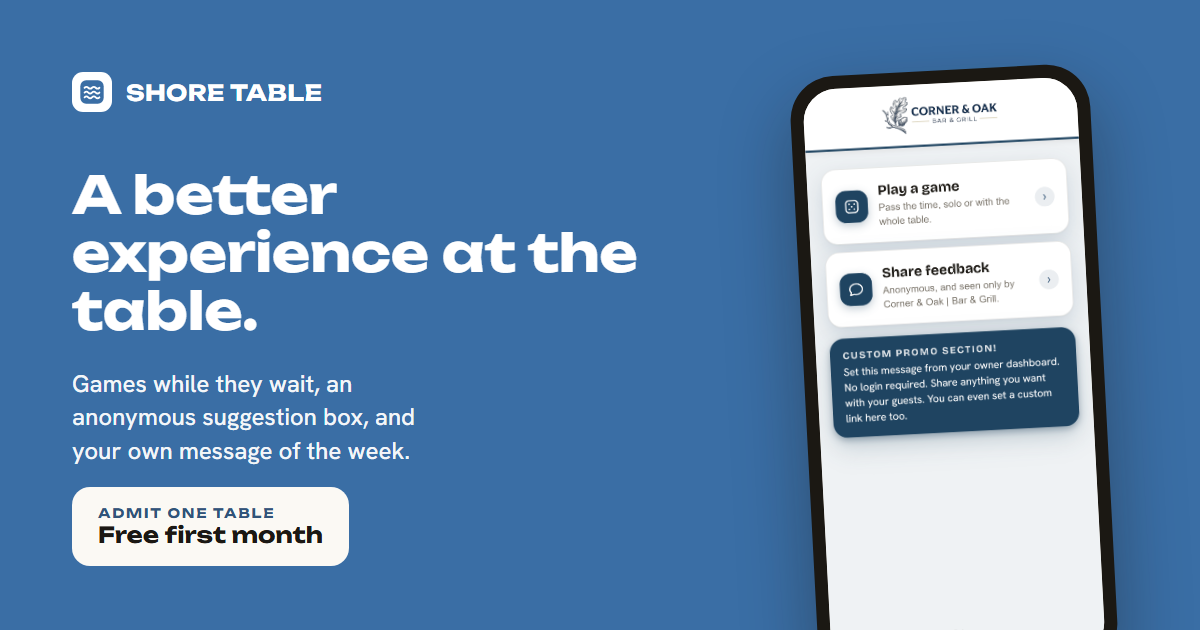
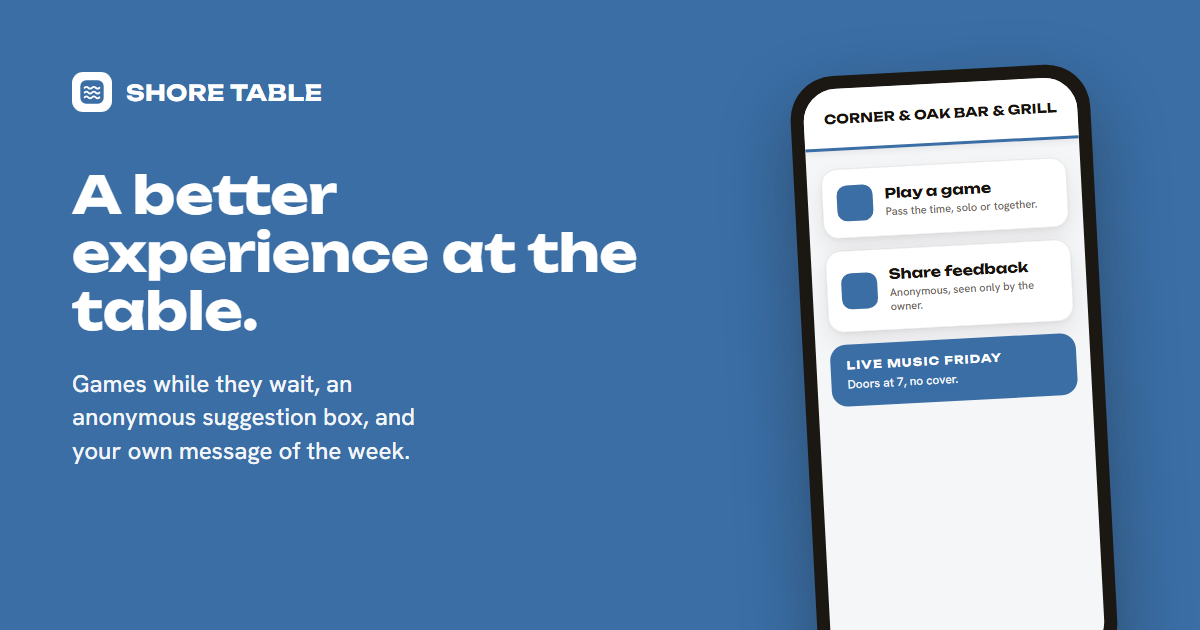
WIP homepage pass 4: headline A better experience at the table, Admit one tickets, original lede back, hero phones are live app mockups (no screenshot files), sharing card drawn and published by Settings, upstream og.png regenerated

diff --git a/public/index.html b/public/index.html
@@ -23,9 +23,8 @@
    placeholder in that spot, so it is safe to deploy as is.
    ================================================================ */
 const REPORT_IMAGE_URL = "images/report.png";
-const SCREENSHOT_URL_1 = "images/screenshot-1-landing.png";
-const SCREENSHOT_URL_2 = "images/screenshot-2-hotseat.png";
-const SCREENSHOT_URL_3 = "images/screenshot-3-survey.png";
+/* The three phones in the hero are live mockups of the app, drawn in your
+   accent with your demo venue's name and logo: nothing to paste for them. */
 </script>
 <style>
   /* ============================================================
@@ -152,6 +151,39 @@ const SCREENSHOT_URL_3 = "images/screenshot-3-survey.png";
   .phone-frame .screen{border-radius:26px;overflow:hidden;background:#efece6;aspect-ratio:9/19}
   .phone-frame img{width:100%;height:100%;object-fit:cover}
   .phone-frame .ph{width:100%;height:100%;display:flex;flex-direction:column;align-items:center;justify-content:center;gap:10px;color:var(--ink-faint);font-size:13px;text-align:center;padding:16px}
+  /* the three screens are the app's real components, drawn here at the app's
+     390px width and scaled into the frame, in the accent, with the demo
+     venue's name and logo filled in at load */
+  .mk{width:390px;height:823px;transform:scale(.5436);transform-origin:0 0;background:#f3f5f8;background:color-mix(in srgb, var(--accent) 5%, #f7f8f9);font-family:var(--font-b);color:#16110a;overflow:hidden;position:relative;pointer-events:none;user-select:none}
+  .mk-brand{display:flex;align-items:center;justify-content:center;gap:10px;min-height:62px;padding:14px 18px;background:#fff;border-bottom:3px solid var(--accent);box-shadow:0 2px 8px rgba(22,17,10,.08);position:relative}
+  .mk-logo{display:inline-flex;align-items:center;justify-content:center;max-height:38px}
+  .mk-logo img{max-height:38px;max-width:190px;object-fit:contain;display:block}
+  .mk-logo.has-img .mk-name{display:none}
+  .mk-name{font-family:var(--font-d);font-weight:700;font-size:15px;letter-spacing:.02em;text-transform:uppercase;color:#16110a}
+  .mk-quit{position:absolute;right:16px;top:50%;transform:translateY(-50%);background:var(--accent);color:var(--on-accent);font-weight:700;font-size:12px;border-radius:999px;padding:6px 12px}
+  .mk-body{padding:18px 16px}
+  .mk-opt{position:relative;display:flex;align-items:center;gap:14px;background:#fff;border:1px solid rgba(22,17,10,.09);border-radius:18px;padding:18px 44px 18px 16px;box-shadow:0 2px 4px rgba(22,17,10,.04),0 12px 28px rgba(22,17,10,.08);margin-bottom:11px}
+  .mk-opt b{display:block;font-family:var(--font-d);font-weight:700;font-size:19px;line-height:1.15}
+  .mk-opt i{display:block;font-style:normal;color:#6d6759;font-size:13.5px;line-height:1.4;margin-top:5px}
+  .mk-opt em{position:absolute;right:18px;top:50%;transform:translateY(-50%);font-style:normal;color:#a49d90;font-size:22px}
+  .mk-ic{flex:none;width:44px;height:44px;border-radius:12px;background:var(--accent);color:var(--on-accent);display:grid;place-items:center}
+  .mk-ic svg{width:22px;height:22px;fill:none;stroke:currentColor;stroke-width:1.9;stroke-linecap:round;stroke-linejoin:round}
+  .mk-promo{background:var(--accent);color:var(--on-accent);border-radius:18px;padding:16px 18px;margin-top:6px}
+  .mk-promo b{display:block;font-family:var(--font-d);font-weight:700;font-size:15px;letter-spacing:.12em;text-transform:uppercase}
+  .mk-promo i{display:block;font-style:normal;font-size:14.5px;line-height:1.45;margin-top:5px;opacity:.94}
+  .mk-eyebrow{display:inline-block;background:#fff;border:1px solid rgba(22,17,10,.11);color:var(--accent-deep);border-radius:999px;padding:6px 12px;font-family:var(--font-d);font-weight:700;font-size:10.5px;letter-spacing:.13em;text-transform:uppercase;margin-bottom:14px;box-shadow:0 1px 2px rgba(22,17,10,.06)}
+  .mk-q{font-family:var(--font-d);font-weight:700;font-size:21px;line-height:1.2;margin-bottom:14px}
+  .mk-answer{position:relative;background:#fff;border:1px solid rgba(22,17,10,.2);border-radius:14px;padding:15px 18px;font-weight:600;font-size:15.5px;margin-bottom:10px;box-shadow:0 1px 2px rgba(22,17,10,.06)}
+  .mk-answer.right{border-color:#1f7a4a;background:#e7f5ec}
+  .mk-answer.right span{position:absolute;right:16px;top:50%;transform:translateY(-50%);font-family:var(--font-d);font-weight:700;font-size:11px;letter-spacing:.05em;color:#1f7a4a}
+  .mk-btn{margin-top:8px;background:var(--accent);color:var(--on-accent);border-radius:999px;padding:16px;text-align:center;font-family:var(--font-d);font-weight:700;font-size:15.5px}
+  .mk-label{font-weight:700;font-size:15.5px;margin-top:14px}
+  .mk-rate{display:flex;gap:8px;margin-top:10px}
+  .mk-rate span{flex:1;height:44px;border-radius:12px;background:#fff;border:1px solid rgba(22,17,10,.2);display:flex;align-items:center;justify-content:center;font-family:var(--font-d);font-weight:700;color:#a49d90;font-size:14px}
+  .mk-rate span.on{background:var(--accent);color:var(--on-accent);border-color:transparent}
+  .mk-pills{display:flex;flex-wrap:wrap;gap:8px;margin-top:10px}
+  .mk-pills span{flex:1 1 auto;min-width:96px;background:#fff;border:1px solid rgba(22,17,10,.2);border-radius:12px;padding:12px;font-weight:600;font-size:13.5px;text-align:center}
+  .mk-pills span.on{border-color:var(--accent);background:color-mix(in srgb, var(--accent) 12%, #fff)}
   .phone-frame .ph .dot{width:10px;height:10px;border-radius:2px;background:var(--accent);transform:rotate(45deg)}
   /* captions are prize tags on a string */
   .phone-caption{position:relative;margin-top:22px;background:var(--stock);border:1px solid var(--line-2);border-radius:10px;padding:9px 14px;font-family:var(--font-d);font-weight:500;font-size:11.5px;letter-spacing:.06em;text-transform:uppercase;color:var(--ink)}
@@ -311,12 +343,12 @@ const SCREENSHOT_URL_3 = "images/screenshot-3-survey.png";
   <div class="booth on-accent">
     <div class="wrap booth-inner">
       <div class="booth-copy">
-        <h1>Give them a better experience, not just a better meal.</h1>
-        <p class="lede">A card on your table opens a branded app on your guests' phones: games while they wait, an anonymous suggestion box, and your own message of the week. You get a private live dashboard of what they think.</p>
+        <h1>A better experience at the table.</h1>
+        <p class="lede">Guests scan a card on your table and a branded web app opens on their phone, customized for your restaurant. Games while they wait, an anonymous suggestion box, and a spot for anything you want to tell them that week. You get a private live dashboard with all the important data and insights.</p>
       </div>
       <div class="ticket" aria-label="Get started">
         <div class="ticket__stub">
-          <div class="k">Admit one table</div>
+          <div class="k">Admit one</div>
           <div class="n">Free first month</div>
           <div class="s">For independent restaurants and bars in <span class="cfg-region">your area</span>.</div>
           <span class="notch a" aria-hidden="true"></span><span class="notch b" aria-hidden="true"></span>
@@ -332,15 +364,44 @@ const SCREENSHOT_URL_3 = "images/screenshot-3-survey.png";
     <div class="wrap">
       <div class="phones">
         <div class="phone-col">
-          <div class="phone-frame"><div class="screen" data-img="SCREENSHOT_URL_1"><div class="ph"><span class="dot"></span>App screenshot 1</div></div></div>
+          <div class="phone-frame" role="img" aria-label="The app's home screen on a phone: play a game, share feedback, and the restaurant's own announcement"><div class="screen"><div class="mk" aria-hidden="true">
+            <div class="mk-brand"><span class="mk-logo"><span class="mk-name">Your restaurant</span></span></div>
+            <div class="mk-body">
+              <div class="mk-opt"><span class="mk-ic"><svg viewBox="0 0 24 24"><rect x="3.5" y="3.5" width="17" height="17" rx="4.5"/><circle cx="8.4" cy="8.4" r="1.2" fill="currentColor" stroke="none"/><circle cx="15.6" cy="8.4" r="1.2" fill="currentColor" stroke="none"/><circle cx="12" cy="12" r="1.2" fill="currentColor" stroke="none"/><circle cx="8.4" cy="15.6" r="1.2" fill="currentColor" stroke="none"/><circle cx="15.6" cy="15.6" r="1.2" fill="currentColor" stroke="none"/></svg></span><span><b>Play a game</b><i>Pass the time, solo or with the whole table.</i></span><em>›</em></div>
+              <div class="mk-opt"><span class="mk-ic"><svg viewBox="0 0 24 24"><path d="M21 11.5a8.4 8.4 0 0 1-.9 3.8 8.5 8.5 0 0 1-7.6 4.7 8.4 8.4 0 0 1-3.8-.9L3 21l1.9-5.7a8.4 8.4 0 0 1-.9-3.8 8.5 8.5 0 0 1 4.7-7.6 8.4 8.4 0 0 1 3.8-.9h.5a8.5 8.5 0 0 1 8 8z"/></svg></span><span><b>Share feedback</b><i>Anonymous, and seen only by <span class="mk-name">Your restaurant</span>.</i></span><em>›</em></div>
+              <div class="mk-promo"><b>Live music Friday</b><i>Doors at 7, no cover. Kitchen open late.</i></div>
+            </div>
+          </div></div></div>
           <div class="phone-caption">What they see first</div>
         </div>
         <div class="phone-col">
-          <div class="phone-frame"><div class="screen" data-img="SCREENSHOT_URL_2"><div class="ph"><span class="dot"></span>App screenshot 2</div></div></div>
+          <div class="phone-frame" role="img" aria-label="A trivia round in progress on a phone"><div class="screen"><div class="mk" aria-hidden="true">
+            <div class="mk-brand"><span class="mk-logo"><span class="mk-name">Your restaurant</span></span><span class="mk-quit">Quit</span></div>
+            <div class="mk-body">
+              <div class="mk-eyebrow">Trivia · 3 of 8</div>
+              <div class="mk-q">Who directed the 1972 crime film The Godfather?</div>
+              <div class="mk-answer">Sidney Lumet</div>
+              <div class="mk-answer">Brian De Palma</div>
+              <div class="mk-answer right">Francis Ford Coppola<span>Correct</span></div>
+              <div class="mk-answer">Martin Scorsese</div>
+              <div class="mk-btn">Next ›</div>
+            </div>
+          </div></div></div>
           <div class="phone-caption">A game in progress</div>
         </div>
         <div class="phone-col">
-          <div class="phone-frame"><div class="screen" data-img="SCREENSHOT_URL_3"><div class="ph"><span class="dot"></span>App screenshot 3</div></div></div>
+          <div class="phone-frame" role="img" aria-label="The anonymous suggestion box on a phone"><div class="screen"><div class="mk" aria-hidden="true">
+            <div class="mk-brand"><span class="mk-logo"><span class="mk-name">Your restaurant</span></span></div>
+            <div class="mk-body">
+              <div class="mk-eyebrow">Your honest take</div>
+              <div class="mk-label">How was the food?</div>
+              <div class="mk-rate"><span>1</span><span>2</span><span>3</span><span>4</span><span class="on">5</span></div>
+              <div class="mk-label">How was the service?</div>
+              <div class="mk-rate"><span>1</span><span>2</span><span>3</span><span class="on">4</span><span>5</span></div>
+              <div class="mk-label">How'd you end up here tonight?</div>
+              <div class="mk-pills"><span class="on">Word of mouth</span><span>Social media</span><span>Walked by</span><span>Maps or search</span></div>
+            </div>
+          </div></div></div>
           <div class="phone-caption">The suggestion box</div>
         </div>
       </div>
@@ -501,19 +562,9 @@ const SCREENSHOT_URL_3 = "images/screenshot-3-survey.png";
 
 <script>
 /* Applies the image URLs set in the <head> block at the top of this file. */
-const IMAGES = {
-  REPORT_IMAGE_URL,
-  SCREENSHOT_URL_1,
-  SCREENSHOT_URL_2,
-  SCREENSHOT_URL_3,
-};
+const IMAGES = { REPORT_IMAGE_URL };
 
-const ALT = {
-  SCREENSHOT_URL_1: "The app's home screen on a phone: play a game, share feedback, and the restaurant's own cards",
-  SCREENSHOT_URL_2: "A group game in progress on a phone",
-  SCREENSHOT_URL_3: "The anonymous suggestion box on a phone",
-  REPORT_IMAGE_URL: "A sample monthly guest report with example numbers",
-};
+const ALT = { REPORT_IMAGE_URL: "A sample monthly guest report with example numbers" };
 document.querySelectorAll("[data-img]").forEach(el => {
   const url = IMAGES[el.dataset.img];
   if(!url || url.startsWith("PASTE_")) return;   // keep the placeholder
@@ -525,6 +576,24 @@ document.querySelectorAll("[data-img]").forEach(el => {
   img.decoding = "async";
   img.onload = () => { el.innerHTML = ""; el.appendChild(img); };
 });
+
+/* ---- the demo venue's name and logo land in the phone mockups ---- */
+(function(){
+  const C = Object.assign({}, window.OPERATOR_CONFIG || {}, window.OPERATOR_BRAND || {});
+  if(!C.supabaseUrl || !C.supabaseKey) return;
+  fetch(C.supabaseUrl.replace(/\/$/, '') + '/rest/v1/public_venues?id=eq.demo&select=name,logo', { headers: { apikey: C.supabaseKey, Authorization: 'Bearer ' + C.supabaseKey } })
+    .then(r => r.ok ? r.json() : [])
+    .then(rows => {
+      const v = rows && rows[0]; if(!v || !v.name) return;
+      document.querySelectorAll('.mk-name').forEach(e => e.textContent = v.name);
+      if(!v.logo || !/^https?:/i.test(v.logo)) return;
+      document.querySelectorAll('.mk-logo').forEach(e => {
+        const i = new Image(); i.alt = '';
+        i.onload = ()=>{ e.appendChild(i); e.classList.add('has-img'); };
+        i.src = v.logo;
+      });
+    }).catch(()=>{});
+})();
 
 /* ---- operator config fill (config.js + brand.js) ---- */
 (function(){

diff --git a/public/admin.html b/public/admin.html
@@ -397,6 +397,68 @@ function brandNow(settings){
 }
 const b64utf8 = s => btoa(unescape(encodeURIComponent(s)));
 const fileToB64 = f => new Promise((res, rej) => { const r = new FileReader(); r.onload = ()=> res(String(r.result).split(',')[1]); r.onerror = rej; r.readAsDataURL(f); });
+/* The sharing card (og:image) for the homepage: the same objects as the
+   page, drawn on a canvas so it always wears the current brand. Returns
+   base64 PNG, or null when the fonts or canvas are unavailable. */
+async function ogCardB64(b, pendingFiles){
+  const W = 1200, H = 630;
+  const cnv = document.createElement('canvas'); cnv.width = W; cnv.height = H;
+  const ctx = cnv.getContext('2d'); if(!ctx) return null;
+  // the homepage's display face, loaded on demand for this one drawing
+  if(!document.getElementById('ogFonts')){
+    const l = document.createElement('link'); l.id = 'ogFonts'; l.rel = 'stylesheet';
+    l.href = 'https://fonts.googleapis.com/css2?family=Unbounded:wght@700&family=Hanken+Grotesk:wght@500&display=swap';
+    document.head.appendChild(l);
+  }
+  try { await Promise.all([document.fonts.load("700 52px 'Unbounded'"), document.fonts.load("500 24px 'Hanken Grotesk'"), document.fonts.load("700 22px 'Unbounded'")]); } catch(e){}
+  const accent = /^#[0-9a-f]{6}$/i.test(b.accent) ? b.accent : '#3a6ea5';
+  const lin = h => { const v = parseInt(h, 16) / 255; return v <= .03928 ? v / 12.92 : Math.pow((v + .055) / 1.055, 2.4); };
+  const mm = /^#(..)(..)(..)$/.exec(accent);
+  const L = .2126 * lin(mm[1]) + .7152 * lin(mm[2]) + .0722 * lin(mm[3]);
+  const onAccent = (1.05 / (L + .05)) >= 4.5 ? '#ffffff' : '#16110a';
+  ctx.fillStyle = accent; ctx.fillRect(0, 0, W, H);
+
+  // wordmark: the icon (pending upload, or the deployed file) in a white tile, then the name
+  const iconSrc = pendingFiles && pendingFiles.icon ? URL.createObjectURL(pendingFiles.icon) : (b.iconUrl || '');
+  let icon = null;
+  if(iconSrc){ try { icon = await new Promise((ok, no)=>{ const i = new Image(); i.onload = ()=> ok(i); i.onerror = no; i.src = iconSrc; }); } catch(e){ icon = null; } }
+  const rr = (x, y, w, h, r)=>{ ctx.beginPath(); ctx.moveTo(x + r, y); ctx.arcTo(x + w, y, x + w, y + h, r); ctx.arcTo(x + w, y + h, x, y + h, r); ctx.arcTo(x, y + h, x, y, r); ctx.arcTo(x, y, x + w, y, r); ctx.closePath(); };
+  ctx.fillStyle = '#fff'; rr(72, 72, 40, 40, 11); ctx.fill();
+  if(icon){ try { ctx.drawImage(icon, 75, 75, 34, 34); } catch(e){} }
+  else { ctx.fillStyle = accent; ctx.font = "800 20px 'Unbounded', sans-serif"; ctx.textBaseline = 'middle'; ctx.textAlign = 'center'; ctx.fillText((b.brandName || 'S')[0].toUpperCase(), 92, 93); }
+  ctx.textAlign = 'left'; ctx.textBaseline = 'alphabetic';
+  ctx.fillStyle = onAccent; ctx.font = "700 22px 'Unbounded', sans-serif";
+  ctx.fillText((b.brandName || '').toUpperCase(), 126, 100);
+
+  // headline and the one line under it
+  const wrap = (text, x, y, maxW, lh, font)=>{ ctx.font = font; const words = text.split(' '); let line = '', yy = y; for(const w of words){ const test = line ? line + ' ' + w : w; if(ctx.measureText(test).width > maxW && line){ ctx.fillText(line, x, yy); line = w; yy += lh; } else line = test; } if(line){ ctx.fillText(line, x, yy); yy += lh; } return yy; };
+  let y = wrap('A better experience at the table.', 72, 214, 620, 60, "700 52px 'Unbounded', sans-serif");
+  ctx.globalAlpha = .94;
+  wrap('Games while they wait, an anonymous suggestion box, and your own message of the week.', 72, y + 24, 400, 34, "500 24px 'Hanken Grotesk', sans-serif");
+  ctx.globalAlpha = 1;
+
+  // the phone: the demo venue's home screen, in this accent
+  const demo = venueById('demo') || {};
+  const vname = demo.name || 'Your restaurant';
+  ctx.save(); ctx.translate(1010, 380); ctx.rotate(-3 * Math.PI / 180); ctx.translate(-150, -310);
+  ctx.shadowColor = 'rgba(22,17,10,.35)'; ctx.shadowBlur = 60; ctx.shadowOffsetY = 26;
+  ctx.fillStyle = '#1b1813'; rr(0, 0, 300, 640, 44); ctx.fill();
+  ctx.shadowColor = 'transparent';
+  ctx.fillStyle = '#f5f6f8'; rr(13, 13, 274, 614, 33); ctx.fill();
+  ctx.save(); rr(13, 13, 274, 614, 33); ctx.clip();
+  ctx.fillStyle = '#fff'; ctx.fillRect(13, 13, 274, 62); ctx.fillStyle = accent; ctx.fillRect(13, 73, 274, 3);
+  ctx.fillStyle = '#16110a'; ctx.font = "700 13px 'Unbounded', sans-serif"; ctx.textAlign = 'center';
+  let vn = vname.toUpperCase(); while(ctx.measureText(vn).width > 240 && vn.length > 4) vn = vn.slice(0, -2) + '…';
+  ctx.fillText(vn, 150, 50); ctx.textAlign = 'left';
+  const row = (yy, title, sub)=>{ ctx.fillStyle = '#fff'; rr(27, yy, 246, 70, 16); ctx.fill(); ctx.fillStyle = accent; rr(39, yy + 17, 36, 36, 10); ctx.fill(); ctx.fillStyle = '#16110a'; ctx.font = "700 14px 'Unbounded', sans-serif"; ctx.fillText(title, 86, yy + 30); ctx.fillStyle = '#6d6759'; ctx.font = "500 11px 'Hanken Grotesk', sans-serif"; ctx.fillText(sub, 86, yy + 50); };
+  row(94, 'Play a game', 'Pass the time, solo or together.');
+  row(176, 'Share feedback', 'Anonymous, seen only by the owner.');
+  ctx.fillStyle = accent; rr(27, 258, 246, 78, 16); ctx.fill();
+  ctx.fillStyle = onAccent; ctx.font = "700 11px 'Unbounded', sans-serif"; ctx.fillText('LIVE MUSIC FRIDAY', 43, 284);
+  ctx.font = "500 12px 'Hanken Grotesk', sans-serif"; ctx.fillText('Doors at 7, no cover.', 43, 306);
+  ctx.restore(); ctx.restore();
+  try { return cnv.toDataURL('image/png').split(',')[1]; } catch(e){ return null; }
+}
 function brandFileText(b){
   return '/* Generated by the operator dashboard (Settings) on ' + new Date().toISOString() + '.\n   Do not edit by hand: the dashboard overwrites this file on every Save. */\nwindow.OPERATOR_BRAND = ' + JSON.stringify(b, null, 2) + ';\n';
 }
@@ -569,6 +631,11 @@ async function settingsView(opts){
         m.className = 'msg ok'; m.textContent = 'Saved to your database. Connect GitHub under Platform updates, then Save again to publish it to your site.';
         return;
       }
+      m.textContent = 'Drawing your sharing card…';
+      try {
+        const og = await ogCardB64(out, pending);
+        if(og) await ghPutFile(repo, tok, 'public/images/og.png', og, 'Sharing card');
+      } catch(e){ console.warn('sharing card skipped', e); }
       m.textContent = 'Publishing to your site…';
       out.stamp = stamp;
       await ghPutFile(repo, tok, 'public/brand.js', b64utf8(brandFileText(out)), 'Brand settings');

diff --git a/PRODUCT.md b/PRODUCT.md
@@ -78,12 +78,14 @@ brand.js and must keep working through data attributes and class hooks
 
 ## Evidence on Hand
 
-- Real product screenshots: public/images/screenshot-1-landing.png,
-  screenshot-2-hotseat.png, screenshot-3-survey.png (1170x2469 phone
-  captures) and public/images/report.png (a sample monthly report).
+- The three hero phones are live mockups of the app's real screens
+  (home, a trivia round, the suggestion box), drawn in the operator accent
+  with the demo venue's name and logo; public/images/report.png is a
+  sample monthly report; public/images/og.png is the sharing card, drawn
+  by the dashboard Settings on every publish.
 - A live demo venue at app.html?v=demo.
 - No customer names, counts, testimonials, or quotes may appear yet
-  (confirmed 2026-09-07: screenshots only). Leave nothing that reads as a
+  (confirmed 2026-09-07). Leave nothing that reads as a
   claim of scale.
 
 ## Product Principles
@@ -96,5 +98,5 @@ brand.js and must keep working through data attributes and class hooks
    never blurred into one.
 4. Local and personal beats national and polished; the operator is a
    neighbor, and the page should sound like one.
-5. Truth over volume: real screenshots and real mechanics; no invented
-   proof.
+5. Truth over volume: the app's real screens and real mechanics; no
+   invented proof.

diff --git a/DESIGN.md b/DESIGN.md
@@ -348,7 +348,7 @@ The small label under a phone or the pinned report, hung on a string.
 - **Style:** `--stock` fill, 1.5px `--line-2` border, 10px radius, 9px 14px padding; caption lettering (Unbounded 500 11.5px, 0.06em, uppercase). A 1.5px string rises 22px from its top center. On the accent panel the border goes transparent and the string is white at 60%.
 
 ### Phone Frame
-A 232px ink slab (34px radius, 10px bezel) with a 26px-radius screen at 9:19, lifted shadow. Until a screenshot URL is set the screen shows a `#efece6` placeholder with a small accent diamond and `--ink-faint` text.
+A 232px ink slab (34px radius, 10px bezel) with a 26px-radius screen at 9:19, lifted shadow. The screen holds a live mockup of the app (`.mk`): the app's own components at their 390px size, scaled to 0.5436, in the accent, with the demo venue's name and logo filled in at load. No screenshot files.
 
 ### Pinned Report
 Ticket stock sheet, 2px dashed `--line-2` edge, 14px radius, 12px padding around a 6px-radius image, drop-shadow filter, tilted 0.8 degrees, captioned with a prize tag 24px below.

diff --git a/SETUP.md b/SETUP.md
@@ -55,9 +55,9 @@ Supabase account itself.
 
 - Replace nothing in code. Add to your fork's `public/` via the GitHub
   web editor if you want: `apple-touch-icon.png` (180x180 PNG, your
-  mark, full bleed) improves add-to-home-screen on iPhones. The three
-  `images/` screenshots are product shots; you can replace them with
-  screenshots of your own branded venues later.
+  mark, full bleed) improves add-to-home-screen on iPhones. The phones on
+  the homepage and the sharing card (`images/og.png`) draw themselves from
+  your Settings and your demo venue, so there are no screenshots to make.
 
 ## 5. Your config
 
